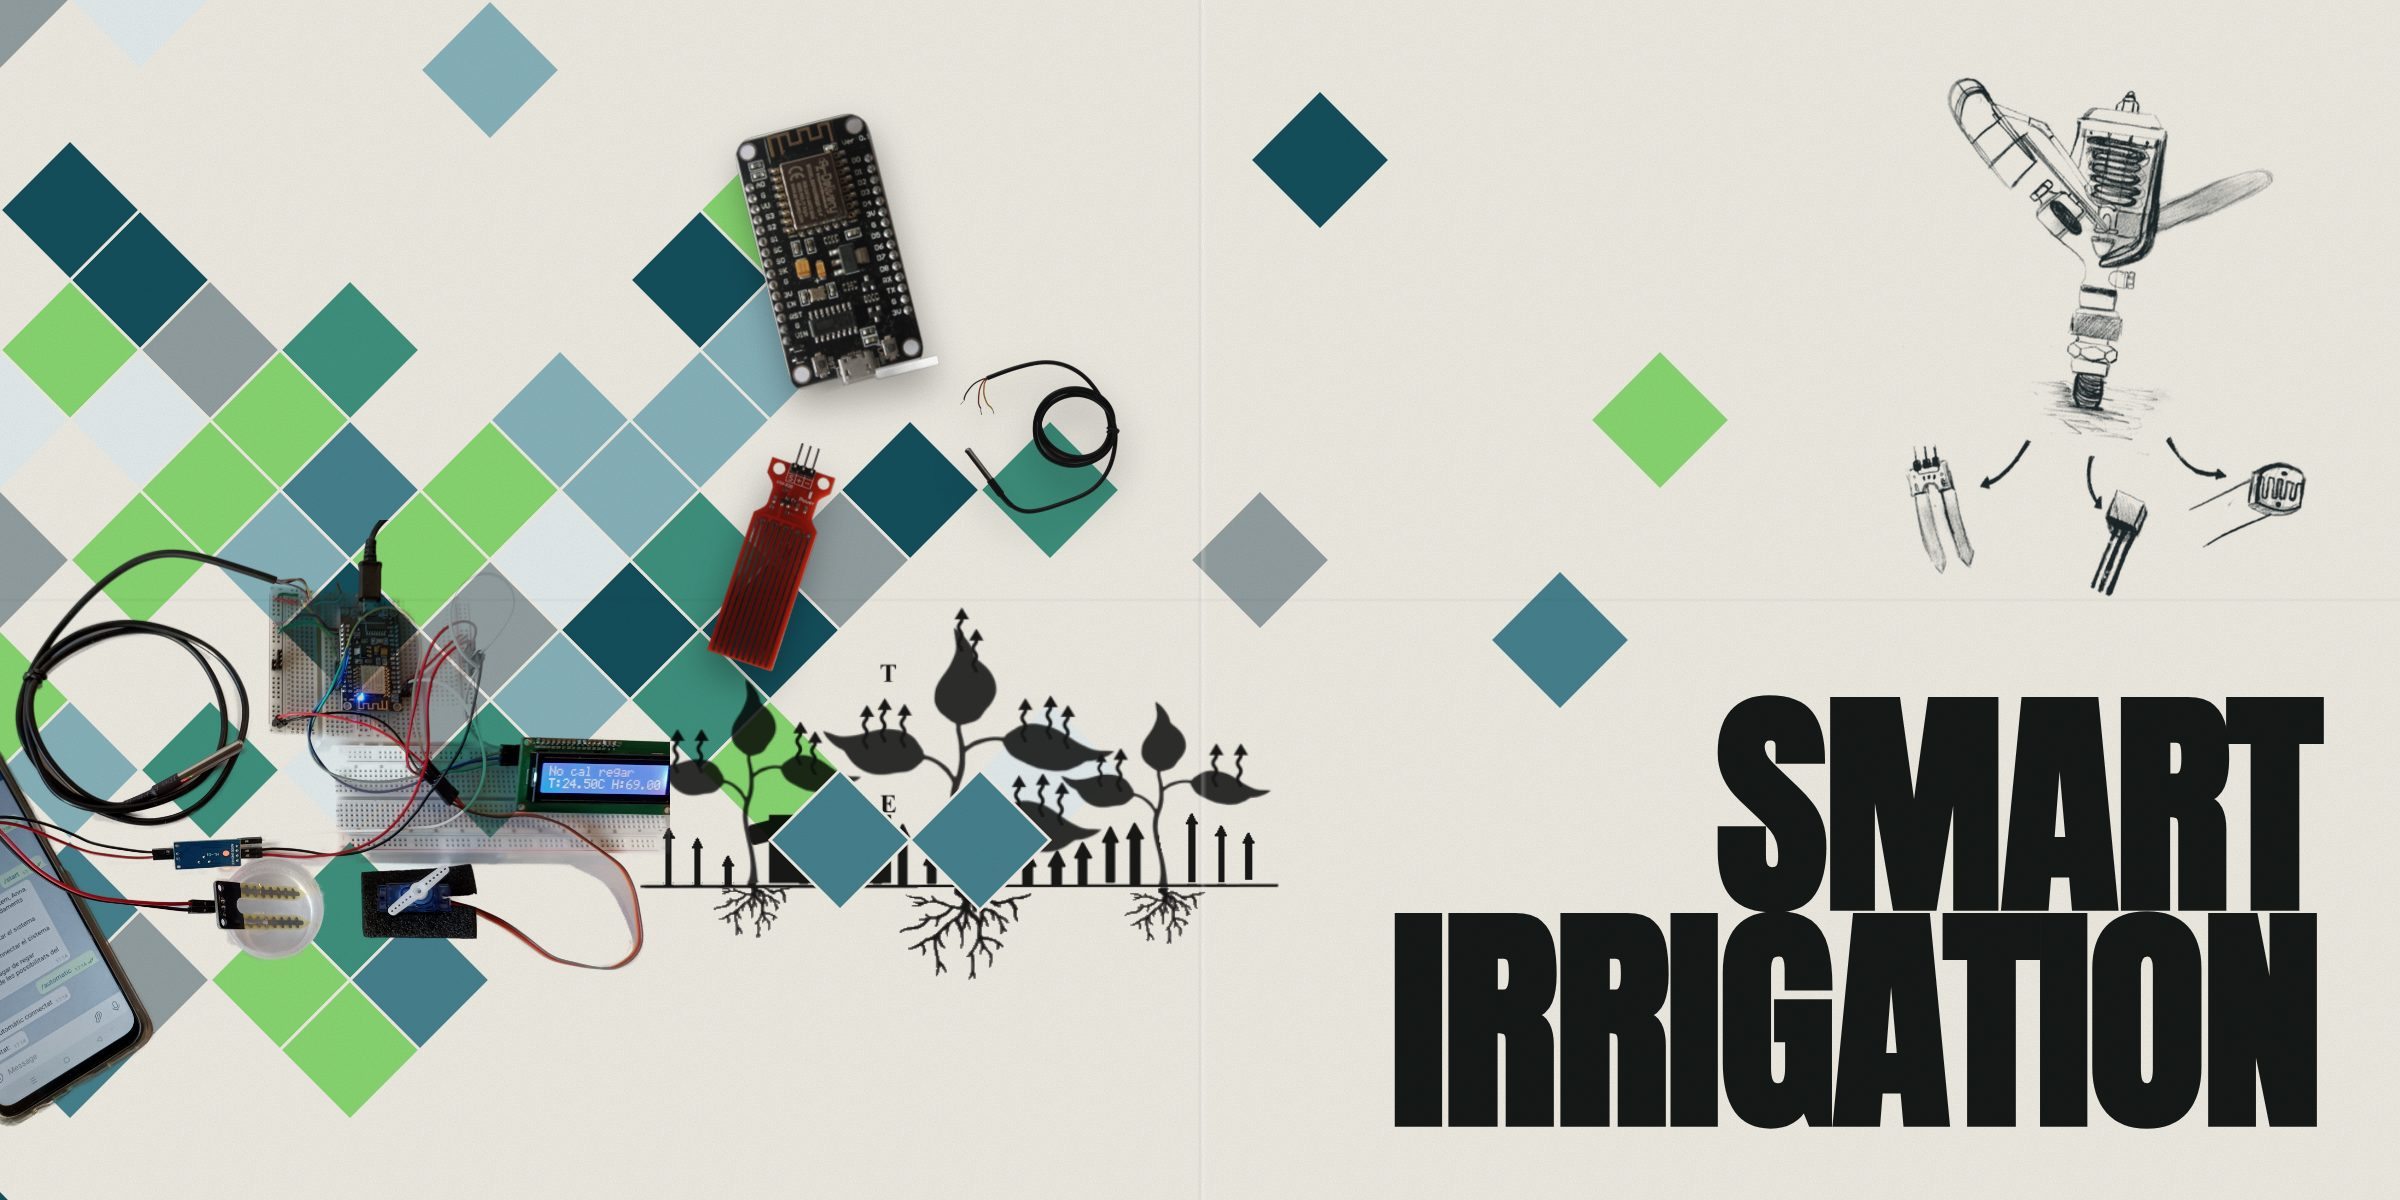
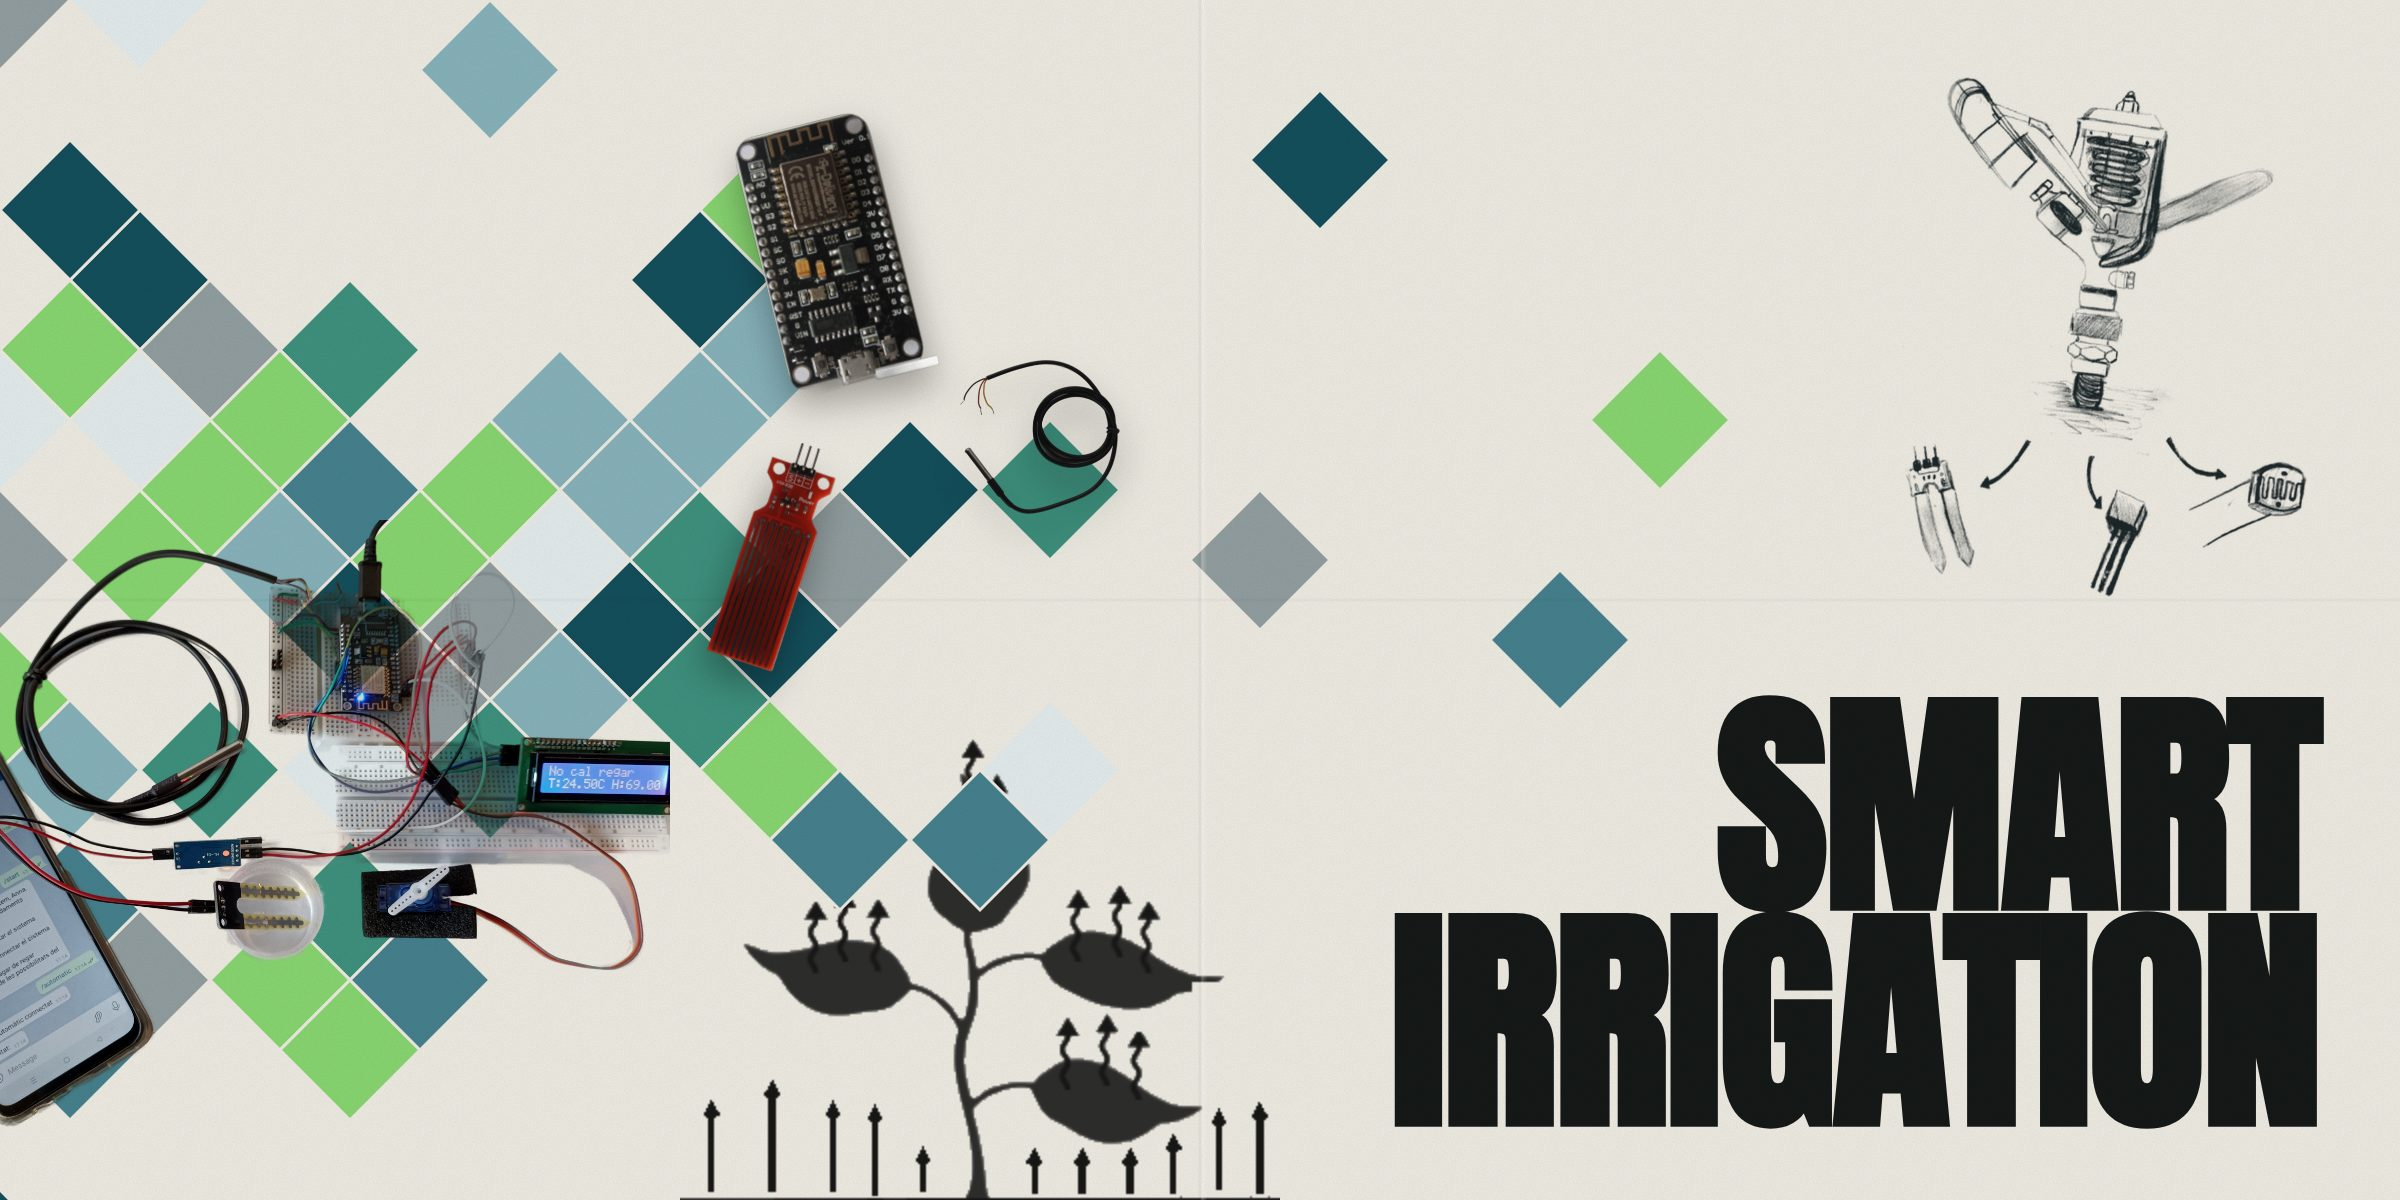
Billboard: keep only the middle plant, sitting on the bottom edge
Claude-Session: https://claude.ai/code/session_01PchemtfrPnXx57Zg6o9MzX

Changed region(s): [[0.25, 0.5242, 0.5312, 1.0]]

diff --git a/billboard/smart-irrigation.html b/billboard/smart-irrigation.html
@@ -36,7 +36,7 @@
   .photo { left: -150px; top: 520px; width: 820px; z-index: 7; filter: saturate(.8) contrast(1.05); }
   .sketch { left: 1900px; top: 90px; width: 420px; height: 520px; z-index: 5; mix-blend-mode: multiply;
     background: url("../images/smart-irrigation/sketch.png") center top / contain no-repeat; transform: rotate(6deg); }
-  .plant { left: 640px; top: 600px; width: 640px; z-index: 4; filter: brightness(0); opacity: .9; } /* drawn in black, between the two layers of tiles */
+  .plant { left: 680px; bottom: -6px; width: 600px; z-index: 4; filter: brightness(0); opacity: .9; } /* drawn in black, between the two layers of tiles */
   .comp { z-index: 8; filter: drop-shadow(0 18px 18px rgba(0,0,0,.35)); }
   .c-node { left: 760px; top: 120px; width: 150px; transform: rotate(-14deg); }
   .c-temp { left: 960px; top: 360px; width: 160px; }
@@ -52,7 +52,7 @@
 
   <img class="photo" src="../images/smart-irrigation/working.png" alt="Prototype working: Telegram bot, sensors, NodeMCU, servo and LCD reading No cal regar">
   <div class="sketch" role="img" aria-label="Pencil sketch of a sprinkler and its sensors"></div>
-  <img class="plant" src="../images/smart-irrigation/plant-scheme.png" alt="Scheme of plants: evaporation from the soil and transpiration from the leaves">
+  <img class="plant" src="../images/smart-irrigation/plant-middle.png" alt="Plant scheme: water transpiring from the leaves">
 
   <img class="comp c-node" src="../images/smart-irrigation/tile-nodemcu.png" alt="NodeMCU board">
   <img class="comp c-temp" src="../images/smart-irrigation/tile-temperature.png" alt="Temperature sensor">
